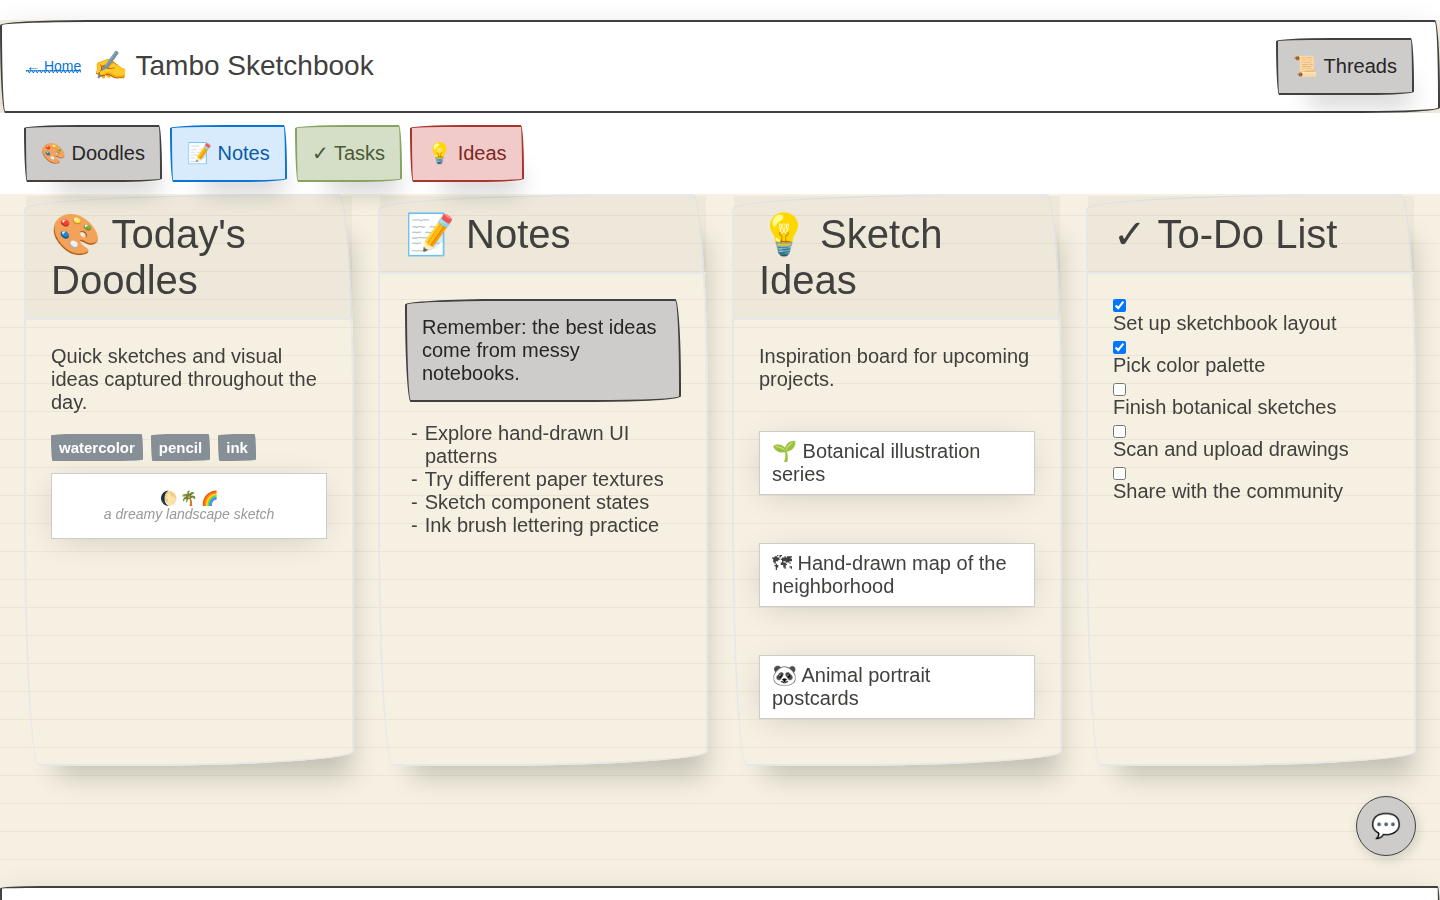
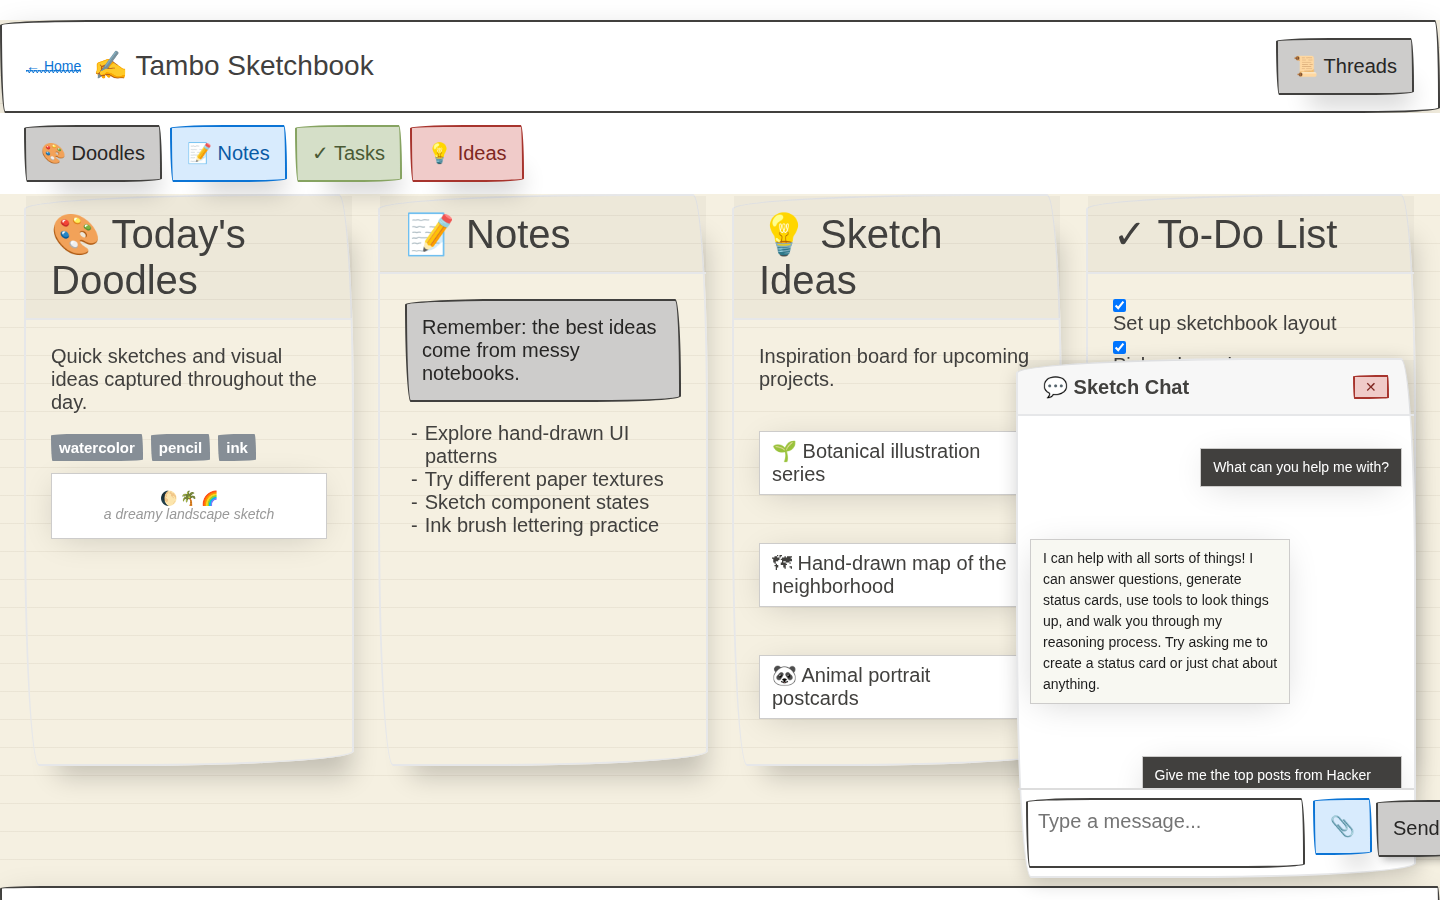
Fix chat-open screenshots by adding data-testid to chat bubbles
The style-based selectors in the recording script failed because React
renders inline styles without spaces (e.g. "position:fixed" not
"position: fixed"). Replace fragile CSS attribute selectors with
data-testid="chat-bubble" on all 14 chat bubble buttons, and simplify
findChatBubble() to a single locator. Re-captured winxp and papercss
chat-open screenshots.

https://claude.ai/code/session_01GCPXAKguWup73TitEjD6qB

Changed region(s): [[0.6875, 0.4044, 1.0, 0.9956]]

diff --git a/scripts/record-demos.ts b/scripts/record-demos.ts
@@ -45,24 +45,8 @@ const RECORDINGS_DIR = path.resolve(__dirname, "..", "recordings");
  * Returns null if none found (e.g. landing page).
  */
 async function findChatBubble(page: Page) {
-  // Strategy 1: inline style with position: fixed + bottom (most pages)
-  const inlineFixed = page.locator(
-    'button[style*="position: fixed"][style*="bottom"]'
-  );
-  if ((await inlineFixed.count()) > 0) return inlineFixed.first();
-
-  // Strategy 2: Tailwind utility classes (neobrutalism)
-  const tailwindFixed = page.locator("button.fixed");
-  if ((await tailwindFixed.count()) > 0) return tailwindFixed.first();
-
-  // Strategy 3: parent div with fixed positioning wrapping a button
-  const parentFixed = page.locator(
-    'div[style*="position: fixed"][style*="bottom"] button'
-  );
-  if ((await parentFixed.count()) > 0) return parentFixed.first();
-
-  // Strategy 4: coordinate-based click as last resort
-  // Chat bubbles are always bottom-right, roughly 40px from edges
+  const bubble = page.locator('[data-testid="chat-bubble"]');
+  if ((await bubble.count()) > 0) return bubble.first();
   return null;
 }
 

diff --git a/src/app/(neobrutalism)/neobrutalism/page.tsx b/src/app/(neobrutalism)/neobrutalism/page.tsx
@@ -250,6 +250,7 @@ export default function NeobrutalismDemo() {
       {/* FLOATING CHAT BUBBLE */}
       {!chatOpen && (
         <button
+          data-testid="chat-bubble"
           onClick={() => setChatOpen(true)}
           className="fixed bottom-6 right-6 z-50 w-14 h-14 rounded-base border-2 border-border bg-main text-main-foreground shadow-shadow flex items-center justify-center text-2xl font-heading cursor-pointer hover:translate-x-boxShadowX hover:translate-y-boxShadowY hover:shadow-none transition-all"
         >

diff --git a/src/app/(retro)/retro/page.tsx b/src/app/(retro)/retro/page.tsx
@@ -211,7 +211,7 @@ export default function RetroDemo() {
 
       {/* Chat Bubble */}
       {!chatOpen && (
-        <div style={{ position: "fixed", bottom: 16, right: 16, zIndex: 999 }}>
+        <div data-testid="chat-bubble" style={{ position: "fixed", bottom: 16, right: 16, zIndex: 999 }}>
           <button
             className="retro-btn retro-btn-primary"
             onClick={() => setChatOpen(true)}

diff --git a/src/app/(nes)/nes/page.tsx b/src/app/(nes)/nes/page.tsx
@@ -251,7 +251,7 @@ export default function NesDemo() {
 
       {/* Chat Bubble */}
       {!chatOpen && (
-        <div style={{ position: "fixed", bottom: 16, right: 16, zIndex: 999 }}>
+        <div data-testid="chat-bubble" style={{ position: "fixed", bottom: 16, right: 16, zIndex: 999 }}>
           <NesButton
             variant="primary"
             onClick={() => setChatOpen(true)}

diff --git a/src/app/(polaris)/polaris/page.tsx b/src/app/(polaris)/polaris/page.tsx
@@ -311,7 +311,7 @@ export default function PolarisDemo() {
 
       {/* Floating chat bubble */}
       {!chatOpen && (
-        <div style={{ position: "fixed", bottom: 24, right: 24, zIndex: 900 }}>
+        <div data-testid="chat-bubble" style={{ position: "fixed", bottom: 24, right: 24, zIndex: 900 }}>
           <Button
             variant="primary"
             icon={ChatIcon}

diff --git a/src/app/(daisyui)/daisyui/page.tsx b/src/app/(daisyui)/daisyui/page.tsx
@@ -324,6 +324,7 @@ export default function DaisyUIDemo() {
       {/* ── Floating chat bubble ── */}
       {!chatOpen && (
         <button
+          data-testid="chat-bubble"
           className="btn btn-primary btn-circle fixed bottom-6 right-6 z-40 shadow-lg text-lg"
           onClick={() => setChatOpen(true)}
           aria-label="Open chat"

diff --git a/src/app/(papercss)/papercss/page.tsx b/src/app/(papercss)/papercss/page.tsx
@@ -318,6 +318,7 @@ export default function PaperCSSDemo() {
       {/* ── Floating Chat Bubble ── */}
       {!chatOpen && (
         <button
+          data-testid="chat-bubble"
           className="btn btn-primary paper"
           onClick={() => setChatOpen(true)}
           style={{

diff --git a/src/app/(carbon)/carbon/page.tsx b/src/app/(carbon)/carbon/page.tsx
@@ -410,6 +410,7 @@ export default function CarbonPage() {
       {/* ---------- Floating chat bubble ---------- */}
       {!chatOpen && (
         <button
+          data-testid="chat-bubble"
           onClick={() => setChatOpen(true)}
           aria-label="Open chat"
           style={{

diff --git a/src/app/(mantine)/mantine/page.tsx b/src/app/(mantine)/mantine/page.tsx
@@ -255,6 +255,7 @@ export default function MantineDemo() {
       {/* ---------- Floating chat bubble ---------- */}
       {!chatOpen && (
         <ActionIcon
+          data-testid="chat-bubble"
           size={56}
           radius="xl"
           variant="filled"

diff --git a/src/app/(pico)/pico/page.tsx b/src/app/(pico)/pico/page.tsx
@@ -334,6 +334,7 @@ function Chat() {
       {/* ── Floating Chat Bubble ── */}
       {!chatOpen && (
         <button
+          data-testid="chat-bubble"
           ref={chatButtonRef}
           onClick={() => setChatOpen(true)}
           style={{

diff --git a/src/app/(primer)/primer/page.tsx b/src/app/(primer)/primer/page.tsx
@@ -388,6 +388,7 @@ export default function PrimerDemo() {
       {/* Chat Bubble */}
       {!chatOpen && (
         <button
+          data-testid="chat-bubble"
           onClick={() => setChatOpen(true)}
           style={{
             position: "fixed",

diff --git a/src/app/(win98)/win98/page.tsx b/src/app/(win98)/win98/page.tsx
@@ -147,6 +147,7 @@ export default function Win98Demo() {
       {/* Chat Bubble */}
       {!chatOpen && (
         <button
+          data-testid="chat-bubble"
           onClick={() => setChatOpen(true)}
           style={{
             position: "fixed",
